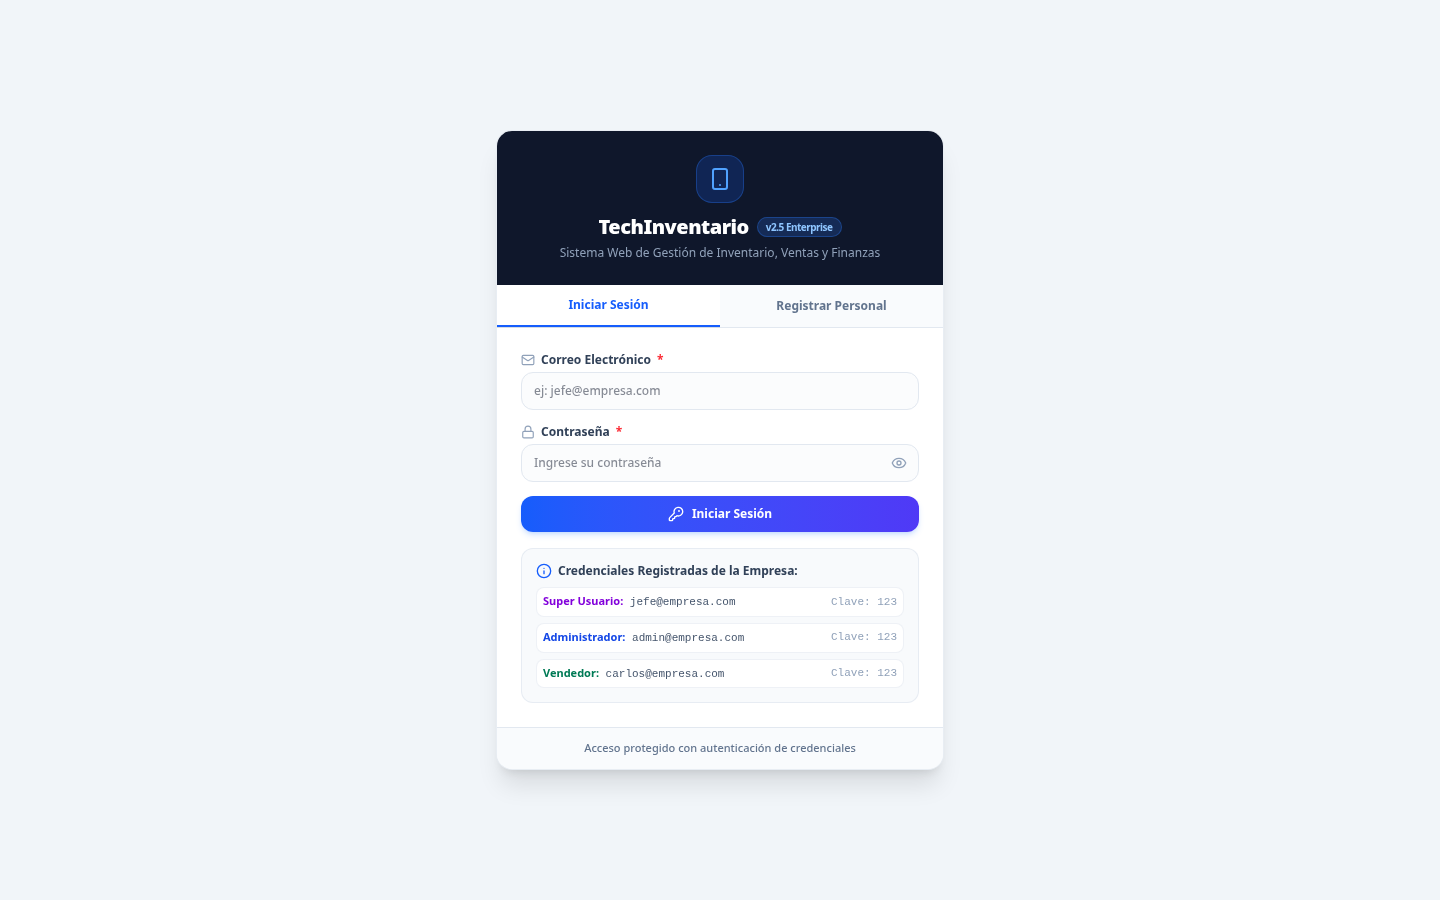
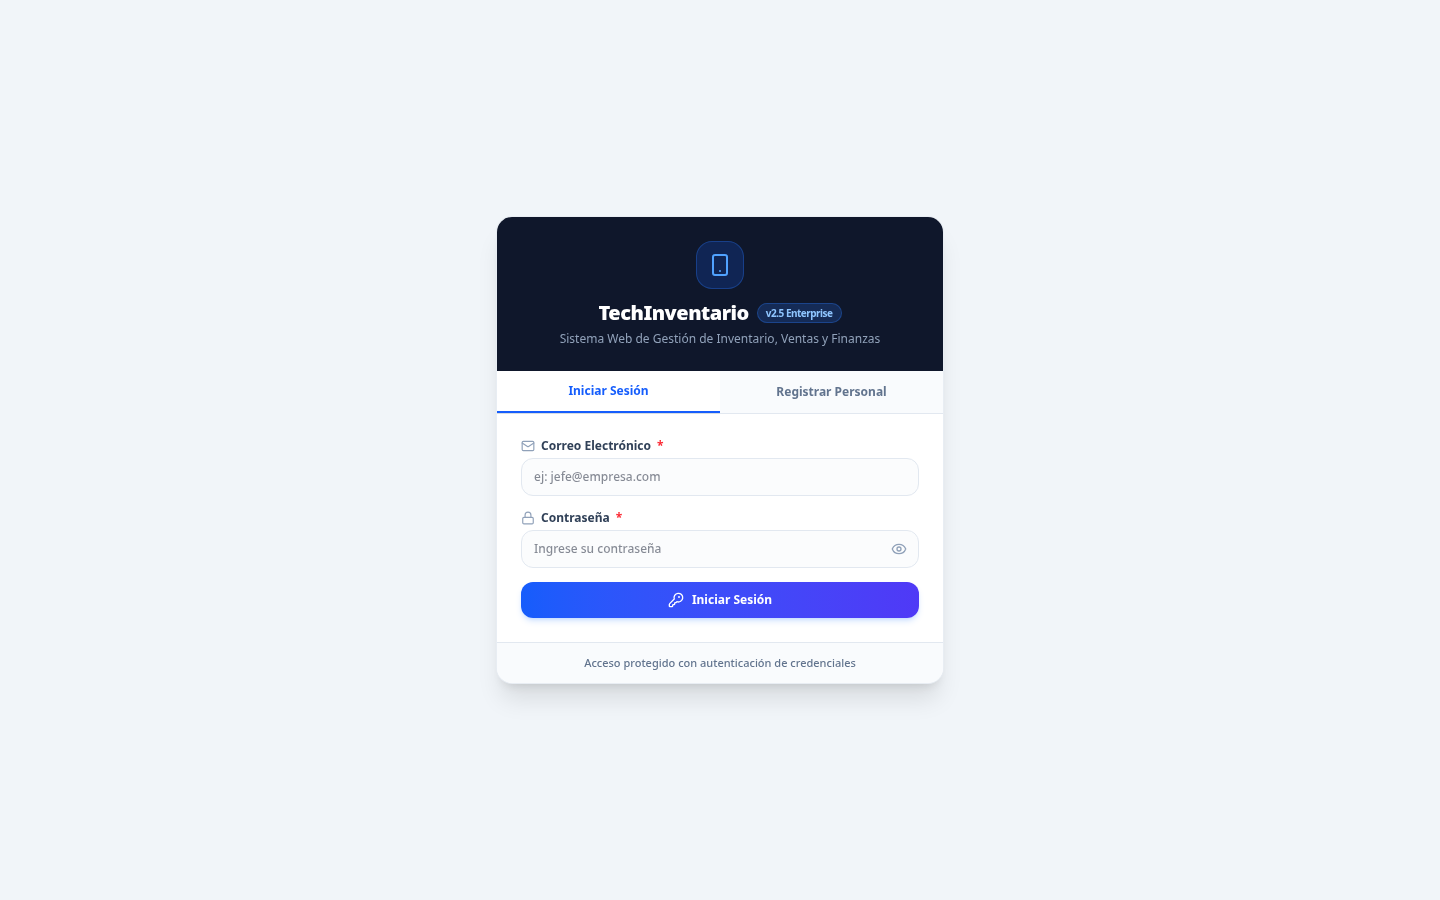
style: eliminacion de caja de credenciales en pantalla de inicio de sesion

Changed region(s): [[0.3438, 0.1244, 0.6562, 0.7778], [0.3438, 0.8089, 0.6562, 0.8711]]

diff --git a/src/components/auth/LoginView.tsx b/src/components/auth/LoginView.tsx
@@ -18,8 +18,7 @@ import {
   Eye,
   EyeOff,
   AlertCircle,
-  KeyRound,
-  Info
+  KeyRound
 } from 'lucide-react';
 
 export const LoginView: React.FC = () => {
@@ -262,33 +261,7 @@ export const LoginView: React.FC = () => {
                 </button>
               </form>
 
-              {/* Guía informativa de credenciales registradas (Solo informativa, no autocompleta) */}
-              <div className="p-3.5 bg-slate-50 rounded-xl border border-slate-200/80 space-y-2 text-xs">
-                <div className="flex items-center gap-1.5 text-slate-700 font-bold">
-                  <Info className="w-4 h-4 text-blue-600 shrink-0" />
-                  <span>Credenciales Registradas de la Empresa:</span>
-                </div>
-                <div className="space-y-1.5 text-[11px] text-slate-600 font-mono">
-                  <div className="flex justify-between items-center bg-white p-1.5 rounded-lg border border-slate-200/60">
-                    <div>
-                      <strong className="text-purple-700 font-sans">Super Usuario:</strong> jefe@empresa.com
-                    </div>
-                    <span className="text-slate-400">Clave: 123</span>
-                  </div>
-                  <div className="flex justify-between items-center bg-white p-1.5 rounded-lg border border-slate-200/60">
-                    <div>
-                      <strong className="text-blue-700 font-sans">Administrador:</strong> admin@empresa.com
-                    </div>
-                    <span className="text-slate-400">Clave: 123</span>
-                  </div>
-                  <div className="flex justify-between items-center bg-white p-1.5 rounded-lg border border-slate-200/60">
-                    <div>
-                      <strong className="text-emerald-700 font-sans">Vendedor:</strong> carlos@empresa.com
-                    </div>
-                    <span className="text-slate-400">Clave: 123</span>
-                  </div>
-                </div>
-              </div>
+
 
             </div>
           ) : (
